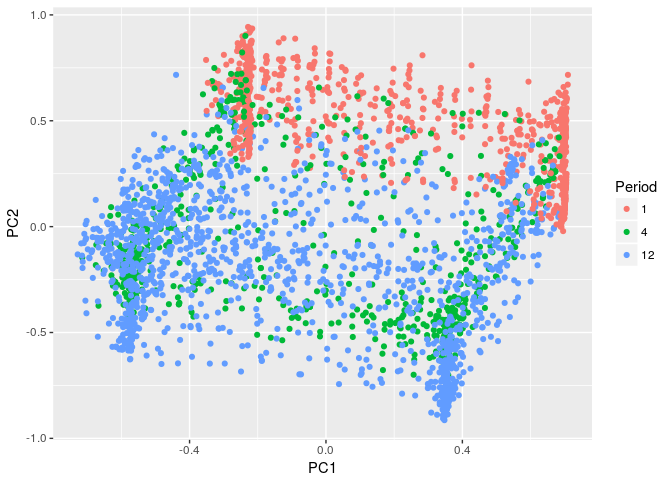
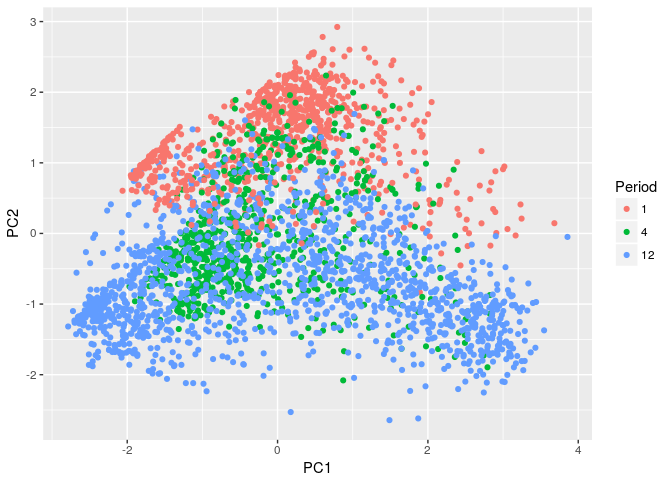
Update to examples

diff --git a/README.md b/README.md
@@ -19,33 +19,44 @@ You can install the **development** version from [Github](https://github.com/rob
 devtools::install_github("robjhyndman/tsfeatures")
 ```
 
-Usage (still in development)
-----------------------------
+Usage
+-----
 
 ### Hyndman, Wang and Laptev (ICDM 2015)
 
 ``` r
 library(tsfeatures)
-library(anomalous)
 library(tidyverse)
+library(anomalous)
 
-yahoo_real <- as.list(cbind(dat0,dat1,dat2,dat3))
-
-KLscore <- function(x){max_kl_shift(x, width=48)}
-real_features <- cbind(
-      tsfeatures(yahoo_real,
-                 c("acf1","stl_features","entropy","lumpiness",
-                   "KLscore","flat_spots","crossing_points")),
-      tsfeatures(yahoo_real,
-                 c("mean","var"), scale=FALSE),
-      tsfeatures(yahoo_real,
-                 c("max_level_shift","max_var_shift"), trim=TRUE)) %>%
+# Compute the features used in Hyndman, Wang & Laptev (ICDM 2015).
+# Note that crossing_points is defined slightly differently in the tsfeatures
+# package than in the Hyndman et al (2015) paper. Other features are the same.
+# Using the real data from the paper
+yahoo <- cbind(dat0, dat1, dat2, dat3)
+hwl <- cbind(
+         tsfeatures(yahoo,
+           c("acf1","stl_features","entropy","lumpiness",
+             "flat_spots","crossing_points")),
+         tsfeatures(yahoo, "max_kl_shift", width=48),
+         tsfeatures(yahoo,
+           c("mean","var"), scale=FALSE, na.rm=TRUE),
+         tsfeatures(yahoo,
+           c("max_level_shift","max_var_shift"), trim=TRUE)) %>%
   select(mean, var, acf1, trend, linearity, curvature, season, peak, trough,
          entropy, lumpiness, spike, max_level_shift, max_var_shift, flat_spots,
          crossing_points, max_kl_shift, time_kl_shift)
-# Note that crossing_points is defined slightly differently in the tsfeatures
-# package than in the Hyndman et al (2015) paper.
 ```
+
+``` r
+# 2-d Feature space
+prcomp(na.omit(hwl), scale=TRUE)$x %>% 
+  as_tibble() %>%
+  ggplot(aes(x=PC1, y=PC2)) +
+    geom_point()
+```
+
+![](READMEfigs/yahoo2-1.png)
 
 ### Kang, Hyndman & Smith-Miles (IJF 2017)
 
@@ -85,7 +96,7 @@ GGally::ggpairs(khs)
 ``` r
 
 # 2-d Feature space (Top of Fig 2)
-prcomp(khs[,-1])$x %>%
+prcomp(khs[,-1], scale=TRUE)$x %>%
   as_tibble() %>%
   bind_cols(Period=khs$Period) %>%
   ggplot(aes(x=PC1, y=PC2)) +
